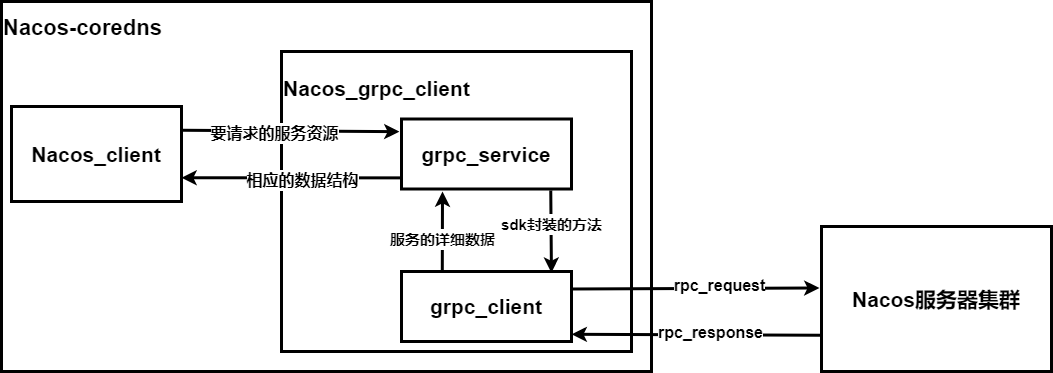
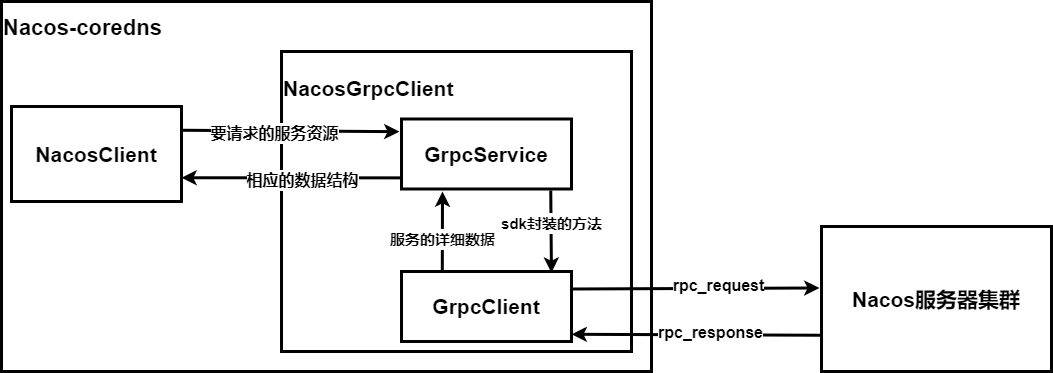
0710update

diff --git a/source/_posts/plugin-details.md b/source/_posts/plugin-details.md
@@ -92,5 +92,57 @@ type Instance struct {
 
 ## grpc通信模块设计
 
+1、启动nacos-coredns插件时，同时启动插件与nacos服务器的grpc通信客户端（nacos_grpc_client）。 
+2、grpc通信客户端调用了Nacos-go-sdk/v2中实现的方法，从nacos服务器集群中获取一个服务器的IP地址和端口并建立TCP连接。HTTP/2下，同个域名只需要占用一个 TCP 连接，使用一个连接并行发送多个请求和响应。 
+3、nacos-coredns插件向Nacos服务器请求资源时，通过grpc通信客户端来调用nacos-go-sdk/v2封装的GetAllServicesInfo、GetService等方法来获取所有服务或某个具体服务的信息详情（ip、port...）。
+4、grpc通信客户端将从nacos服务器里获取到的数据转成对应nacos-coredns插件需要的数据结构，具体数据结构可根据开发中遇到的情况进行调整。
+5、此外，可以对grpc通信客户端设置 超时时间 与 重试次数 等措施来避免调用超时、 阻塞等情况。
 
 
+类设计图
+
+nacos_grpc_client.go
+
+NacosGrpcClient类的成员定义
+type NacosGrpcClient struct {
+	clientConfig      constant.ClientConfig 	//nacos-coredns客户端配置
+	serverConfigs     []constant.ServerConfig 	//nacos服务器集群配置
+	grpc_client       clients.INamingClient		//nacos-coredns与nacos服务器的grpc连接
+}
+
+客户端构造函数
+NewNacosGrpcClient()
+输入：clientConfig、serverConfigs 
+输出：NacosGrpcClient
+功能：初始化客户端
+
+NacosGrpcClient类的方法：
+	私有方法:
+		func (ngc *NacosGrpcClient) reload() 
+		功能： 重连nacos-coredns与nacos服务器的grpc连接
+
+		func (ngc *NacosGrpcClient) getGrpcClient()  
+		输入： 无
+		输出： grpc_client 	//nacos-coredns与nacos服务器的grpc连接
+		功能： 检查grpc连接是否超时，若存活则直接返回grpc连接；若超时则调用reload()后再返回grpc连接
+
+		func (ngc *NacosGrpcClient) parseAllDomNames()					
+		输入：model.ServiceList		//nacos-go-sdk中的ServiceList数据结构
+		输出：AllDomNames			//nacos-coredns插件中的AllDomNames数据结构
+		功能：将从Nacos服务器获取的model.ServiceList数据转换成对应Coredns的Domain数据结构
+
+		func (ngc *NacosGrpcClient) parseDomain() 					
+		输入：model.Service			//nacos-go-sdk中的Service数据结构
+		输出：Domain				//nacos-coredns插件中的Domain数据结构
+		功能：将从Nacos服务器获取的model.Service数据转换成对应Coredns的Instance数据结构
+
+	公有方法：
+		func (ngc *NacosGrpcClient) GetAllServicesInfo() 	
+		输入：vo.GetAllServiceInfoParam //nacos-go-sdk中的GetAllServicesInfo请求参数
+		输出：AllDomNames				//nacos-go-sdk中的ServiceList数据结构
+		作用：对应v1版本的API(/v1/ns/api/allDomNames)，调用getGrpcClient()，调用sdk中封装的方法，获取在nacos里注册的所有服务名，调用parseAllDomNames()转换成对应的数据结构
+
+		func (ngc *NacosGrpcClient) GetService() 					
+		输入：vo.GetServiceParam    //nacos-go-sdk中的GetService请求参数
+		输出：Domain				//nacos-go-sdk中的Service数据结构
+		功能：对应v1版本的API(/v1/ns/api/srvIPXT)，调用getGrpcClient()，调用sdk中封装的方法，获取在nacos里注册的所有服务名，调用parseDomain()转换成对应的数据结构

diff --git a/source/_posts/ospp-0704.md b/source/_posts/ospp-0704.md
@@ -1,11 +1,11 @@
 ---
-title: ubuntu-go-protobuf
+title: ospp记录(一)
 date: 2022-07-04 22:18:43
 categories: 
  - nacos
 ---
 ## 工作进展
-完成了nacos环境的搭建(vmware-ubuntu20.0.4 、nacos-docker v2.1.0 (mysql8.0.18)、 nacos-coredns-plugin v1.6.7)
+目前完成了nacos环境的搭建(vmware-ubuntu20.0.4 、nacos-docker v2.1.0 (mysql8.0.18)、 nacos-coredns-plugin v1.6.7)
 
 使用nacos-go-sdkv2.0搭建的go客户端，可以跟nacos v2.1.0服务器进行grpc连接。 然后在测试nacos-coredns插件与nacos服务器连接的时候返回空结果，发现 nacos-coredns 与 nacos 服务端通信的 api（/nacos/v1/ns/api/allDomNames、/nacos/v1/ns/api/srvIPXT）在 nacos2.x 版本被移除了。
 
@@ -21,5 +21,3 @@ categories:
 
 3、将从nacos服务器里获取到的数据转成对应coredns插件需要的数据结构
 
-查询 
-ip
